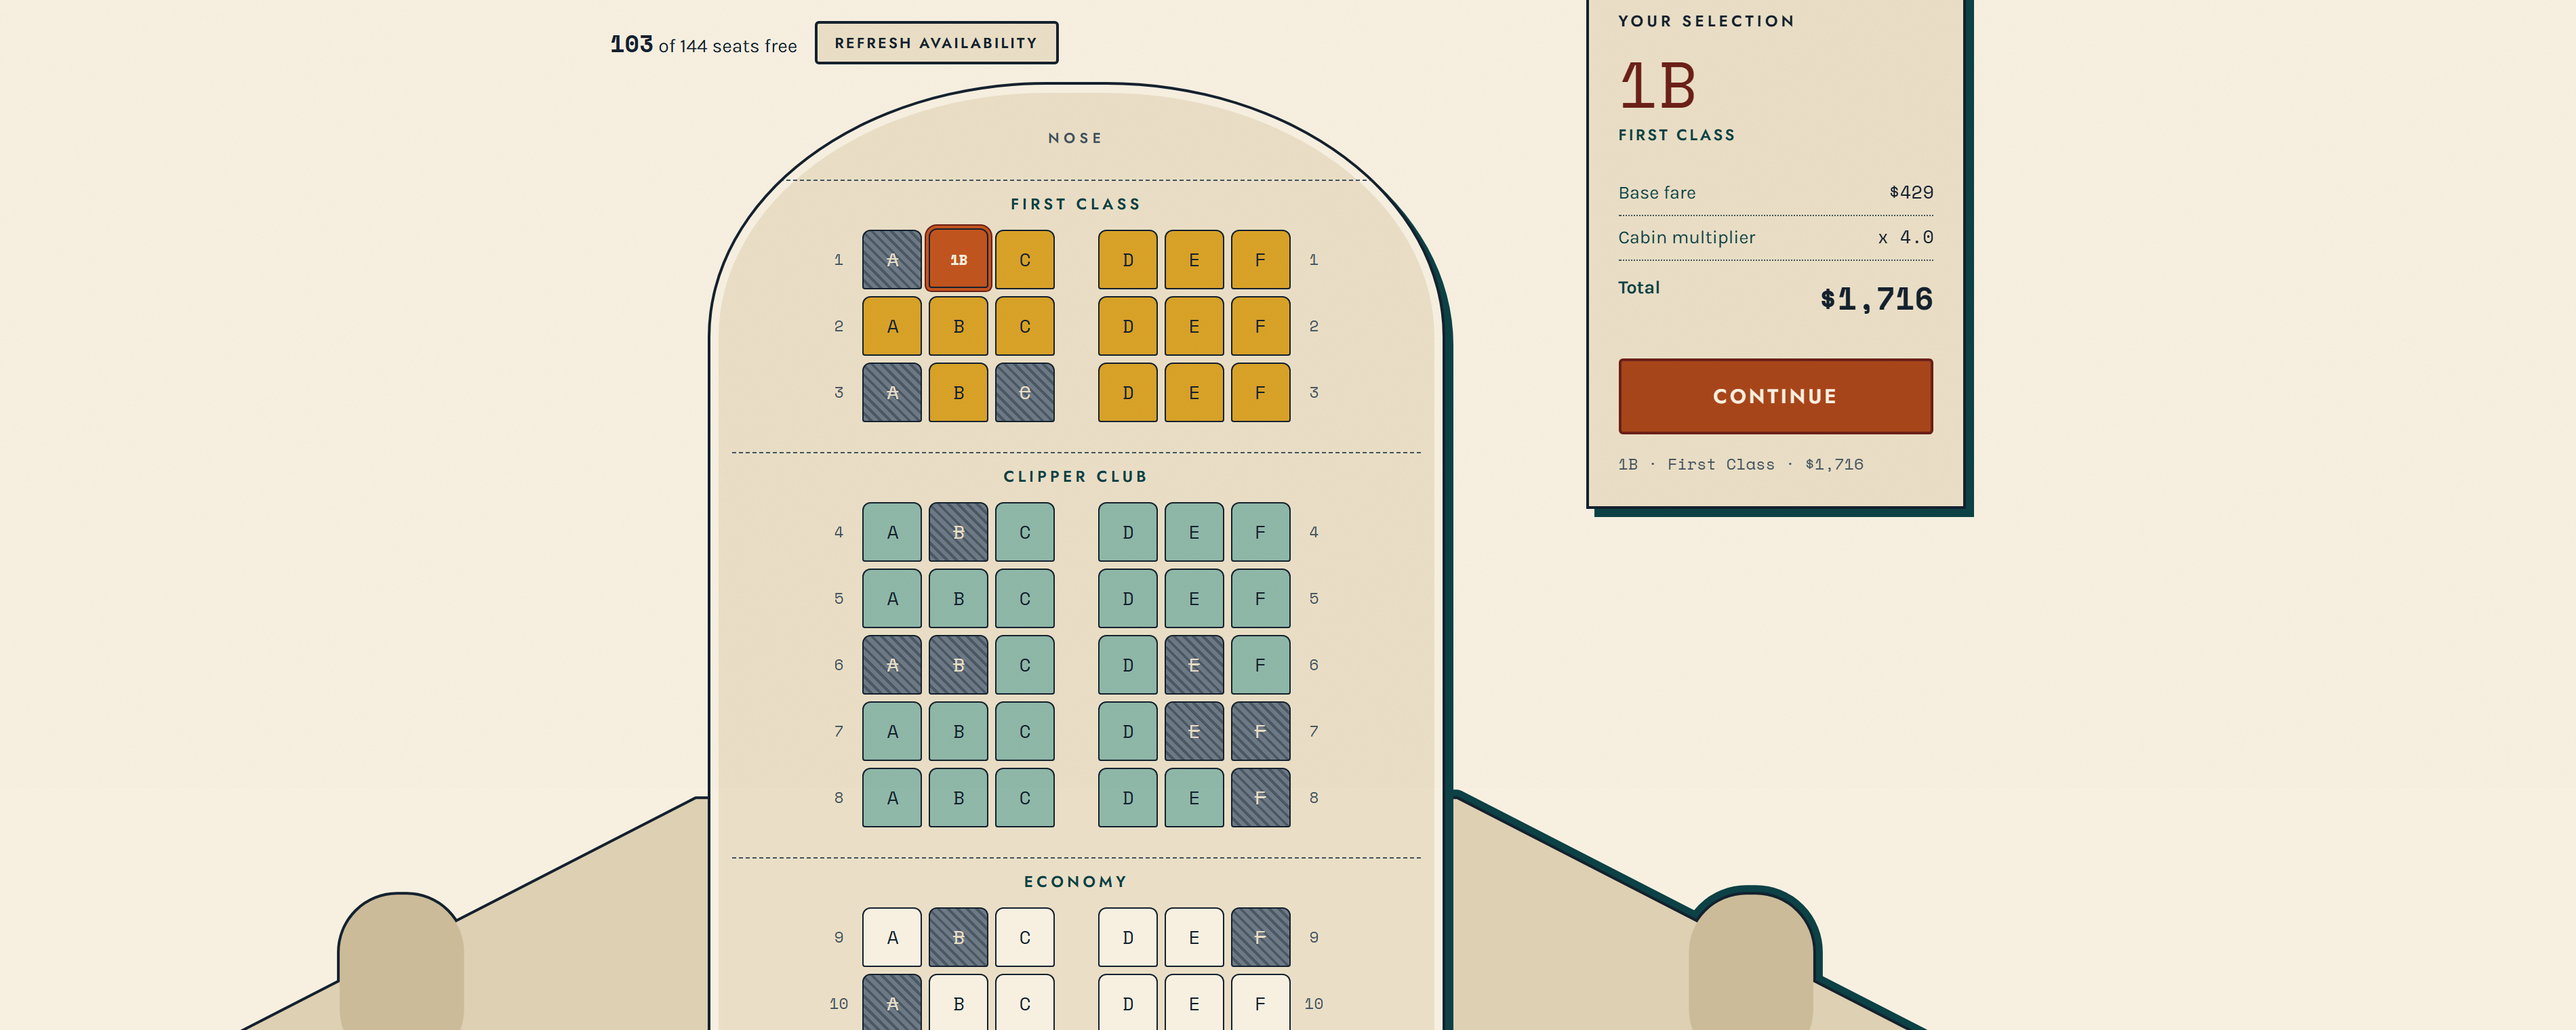
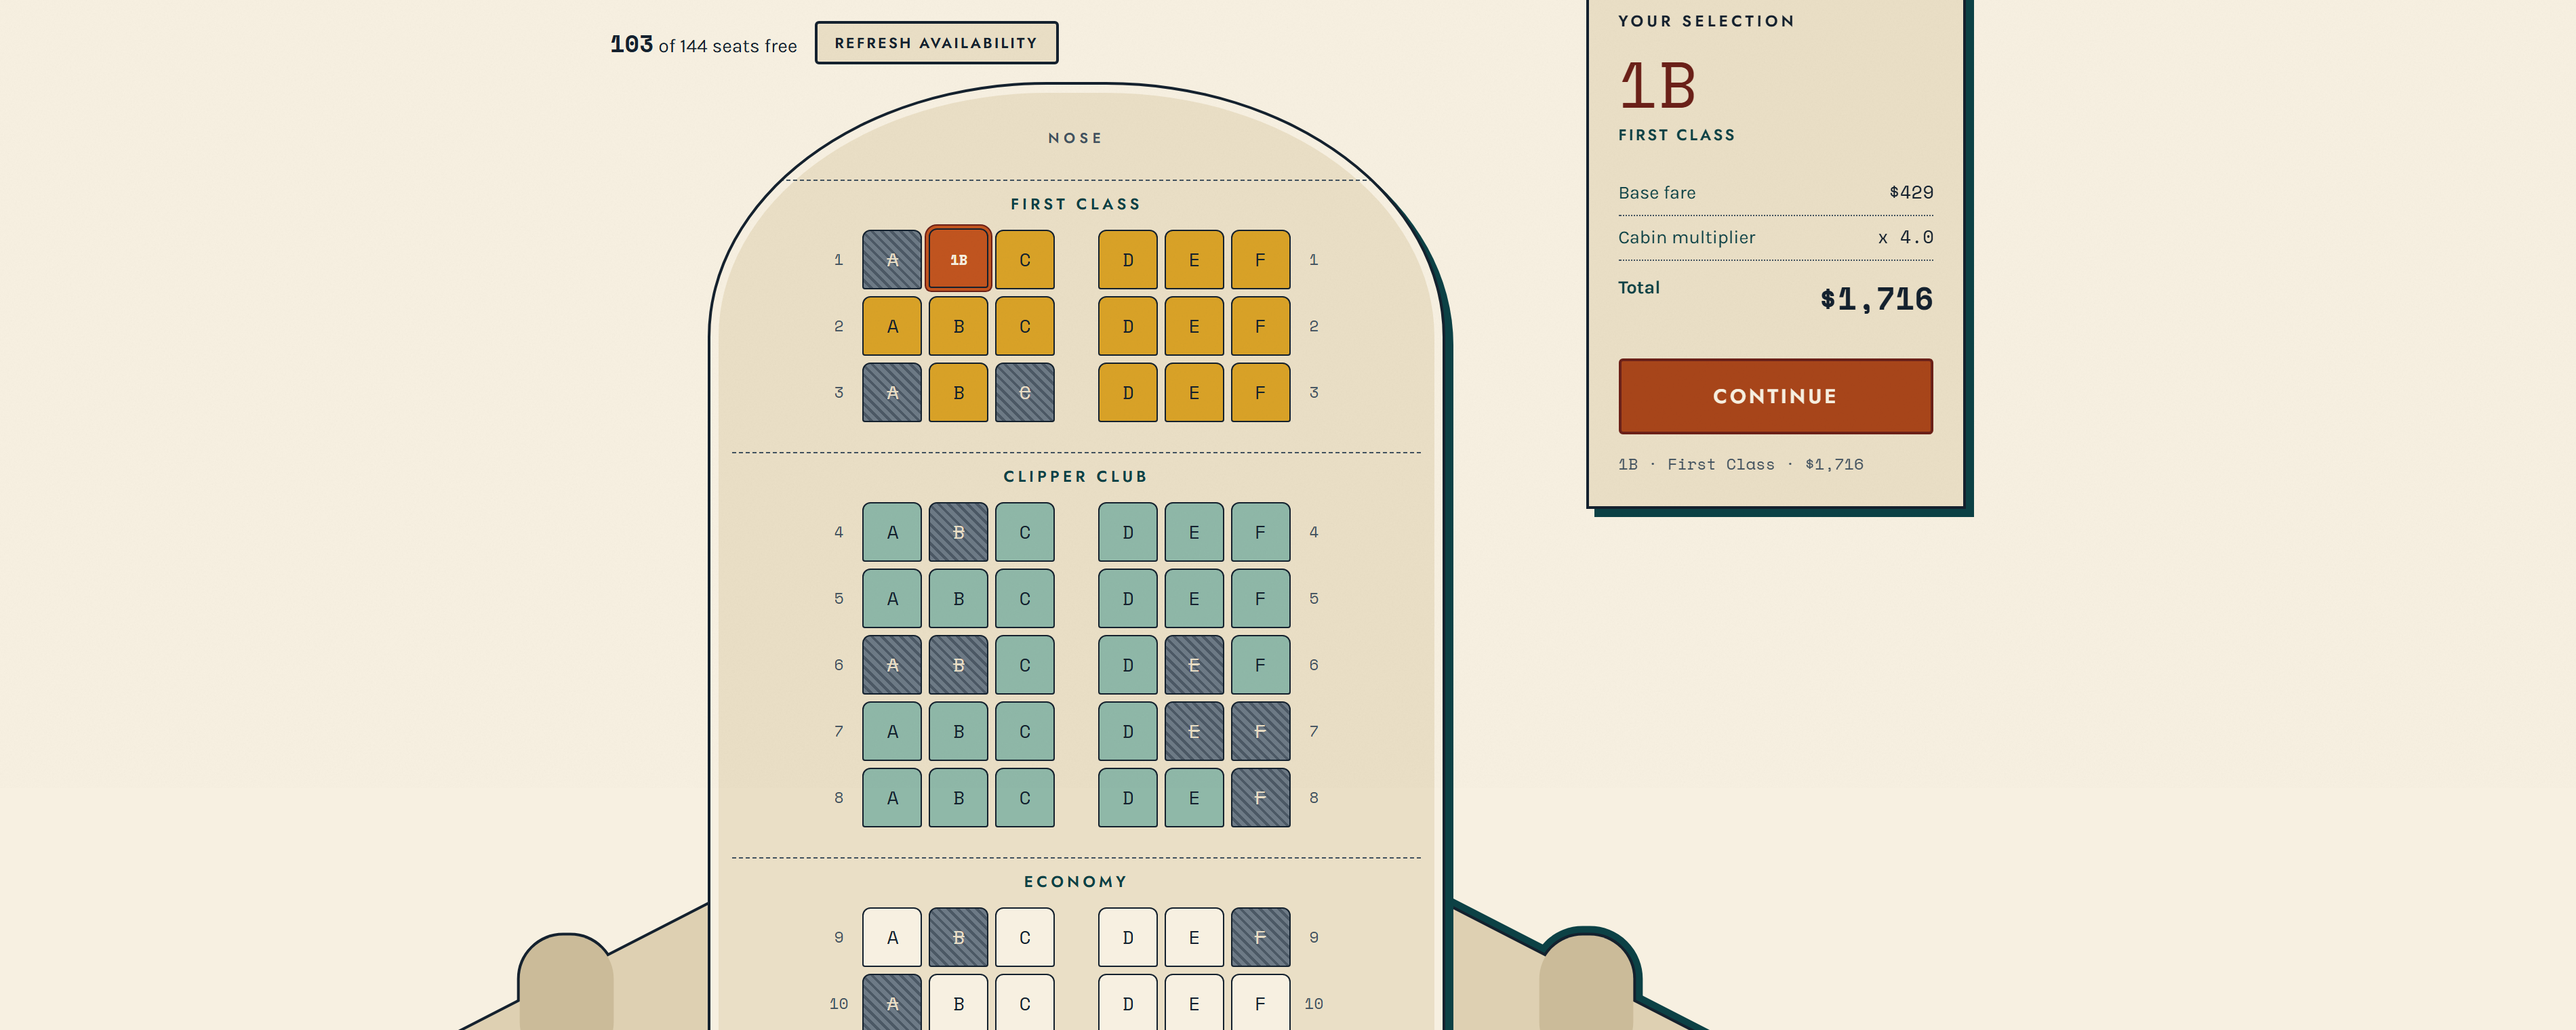
Hold the wings in proportion when the page is zoomed, and settle the nav
The wings were sized as a share of the column capped by the viewport, while
the cabin is a fixed 34rem. Zoom shrinks the CSS viewport but not the cabin,
so the two drifted apart: measured across ordinary zoom levels the span went
from 1.67x the cabin down to 0.72x. They are now sized in rem like the cabin,
with the viewport term left in only as a backstop against clipping. Constant
from 80% through 125%; past that the backstop engages, because the room
simply is not there and being cut off would be worse.

Sign out sat a couple of pixels low: its form was display: inline, and a
button takes line-height: normal from the user agent rather than inheriting
the body's 1.6. Now a flex item with the line-height it should have had -
every item in the bar shares a centre to 0.0px. A second rule separates it
from the pages either side, since signing out is leaving rather than another
place to go.

129/129 pytest, 11/11 wing checks, cabin unchanged.

Changed region(s): [[0.5589, 0.773, 0.7453, 1.0], [0.0932, 0.773, 0.2795, 1.0]]

diff --git a/static/css/retro.css b/static/css/retro.css
@@ -164,7 +164,9 @@ a:hover { color: var(--orange-dk); }
   color: var(--gold);
 }
 
-.site-nav__out { display: inline; }
+/* A flex item, like the links either side of it: as an inline form it sat on
+   its own baseline and the button rode a couple of pixels low. */
+.site-nav__out { display: flex; align-items: center; }
 
 .site-nav__out button {
   padding: 0 0 2px;
@@ -173,6 +175,9 @@ a:hover { color: var(--orange-dk); }
   background: none;
   color: var(--paper);
   font-family: var(--font-display);
+  /* buttons take line-height: normal from the UA rather than inheriting it,
+     which is a couple of pixels shorter than the links beside them */
+  line-height: inherit;
   font-size: 0.78rem;
   font-weight: 500;
   letter-spacing: var(--track-wide);
@@ -1514,11 +1519,18 @@ a:hover { color: var(--orange-dk); }
   /* Behind the cabin without touching it: the shell is statically positioned,
      so anything positioned here would otherwise paint on top of it. */
   z-index: -1;
-  /* Never clipped. The cabin is centred in the left grid column rather than on
-     the page, so the left edge binds first: its centre sits (100vw - 312px)/2
-     from that edge, which caps the span at 100vw - 312px — the sidebar's
-     17.5rem plus the 2rem gap. */
-  width: min(260%, calc(100vw - 19.5rem));
+  /* Sized in rem, like the 34rem cabin, so the two hold their proportion when
+     the page is zoomed. A percentage of the column or a share of the viewport
+     does not: zoom shrinks the CSS viewport while the cabin stays 34rem, and
+     the wings were sliding from 1.67x down to 0.72x of it across ordinary
+     zoom levels.
+
+     The viewport term is only a backstop against clipping. The cabin is
+     centred in the left grid column rather than on the page, so the left edge
+     runs out first: its centre sits (100vw - 312px)/2 from that edge, capping
+     the span at 100vw - 312px — the sidebar's 17.5rem plus the 2rem gap. At
+     75rem that backstop stays out of the way down to about 125% zoom. */
+  width: min(75rem, calc(100vw - 19.5rem));
 }
 
 /* The silhouette pass. Filled as well as stroked so wing and engine merge

diff --git a/templates/base.html b/templates/base.html
@@ -46,6 +46,8 @@
         <a href="{{ url_for('my_trips') }}">My Trips</a>
         <a href="{{ url_for('account') }}">Account</a>
         {% if current_user.is_admin %}<a href="{{ url_for('admin') }}">Admin</a>{% endif %}
+        {# signing out is leaving, not another place to go #}
+        <span class="site-nav__rule" aria-hidden="true"></span>
         <form class="site-nav__out" method="post" action="{{ url_for('logout') }}">
           <input type="hidden" name="csrf_token" value="{{ csrf_token }}">
           <button type="submit">Sign out</button>
